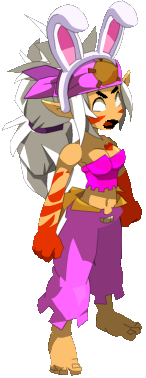
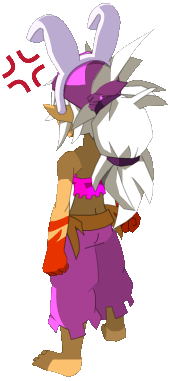
Change Sbab angry (back + emote), set release date, use ejs-includes for common html

diff --git a/server.js b/server.js
@@ -1,4 +1,4 @@
-const RELEASE_DATE_STRING = '2021-02-09T13:48:40Z';
+const RELEASE_DATE_STRING = '2021-02-16T19:59:55Z';
 const PUBLIC_HTML = '/public_html/';
 const NODE_MODULES = '/node_modules/';
 const CLUES_DATABASE = './clues.json';
